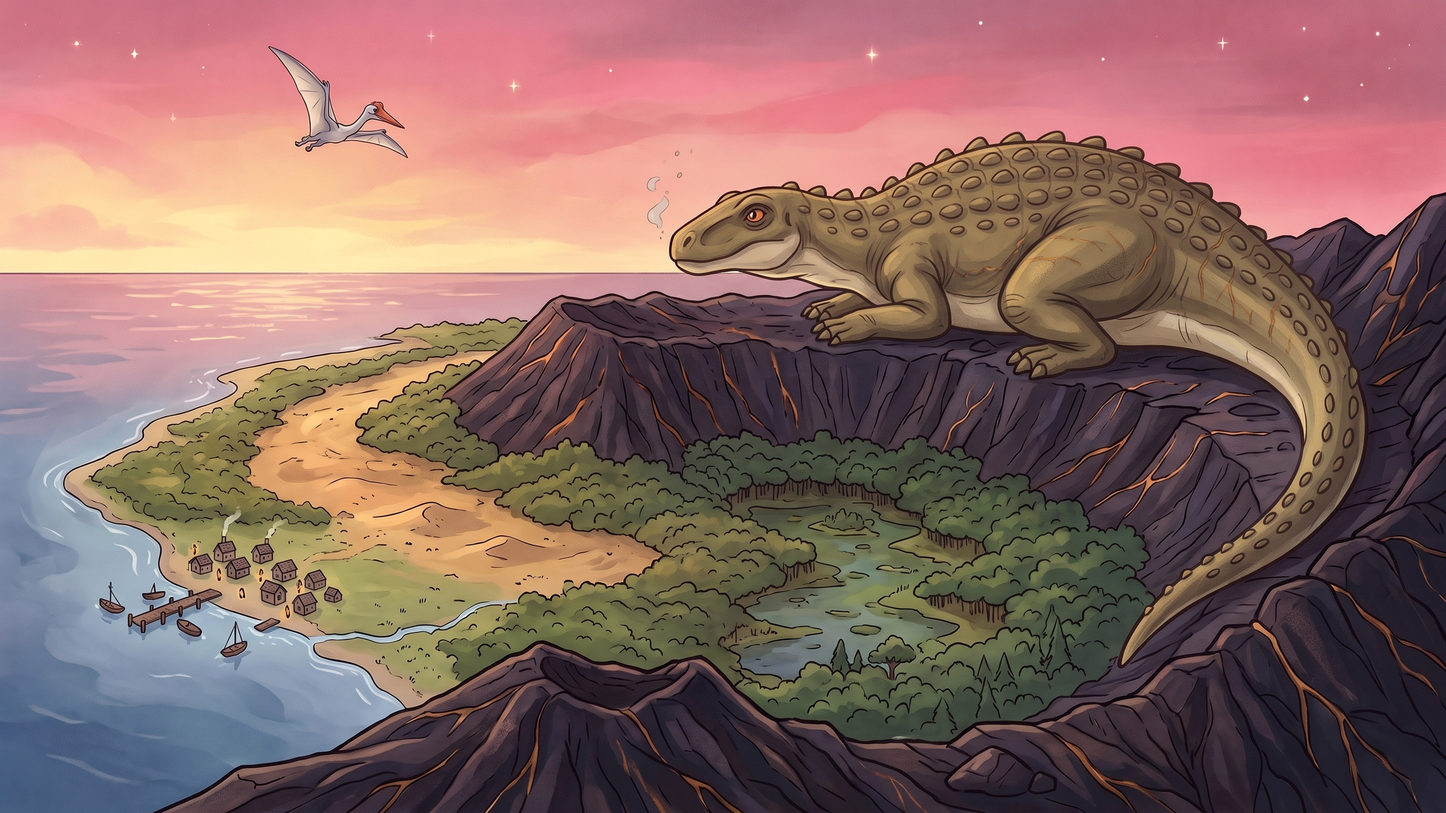
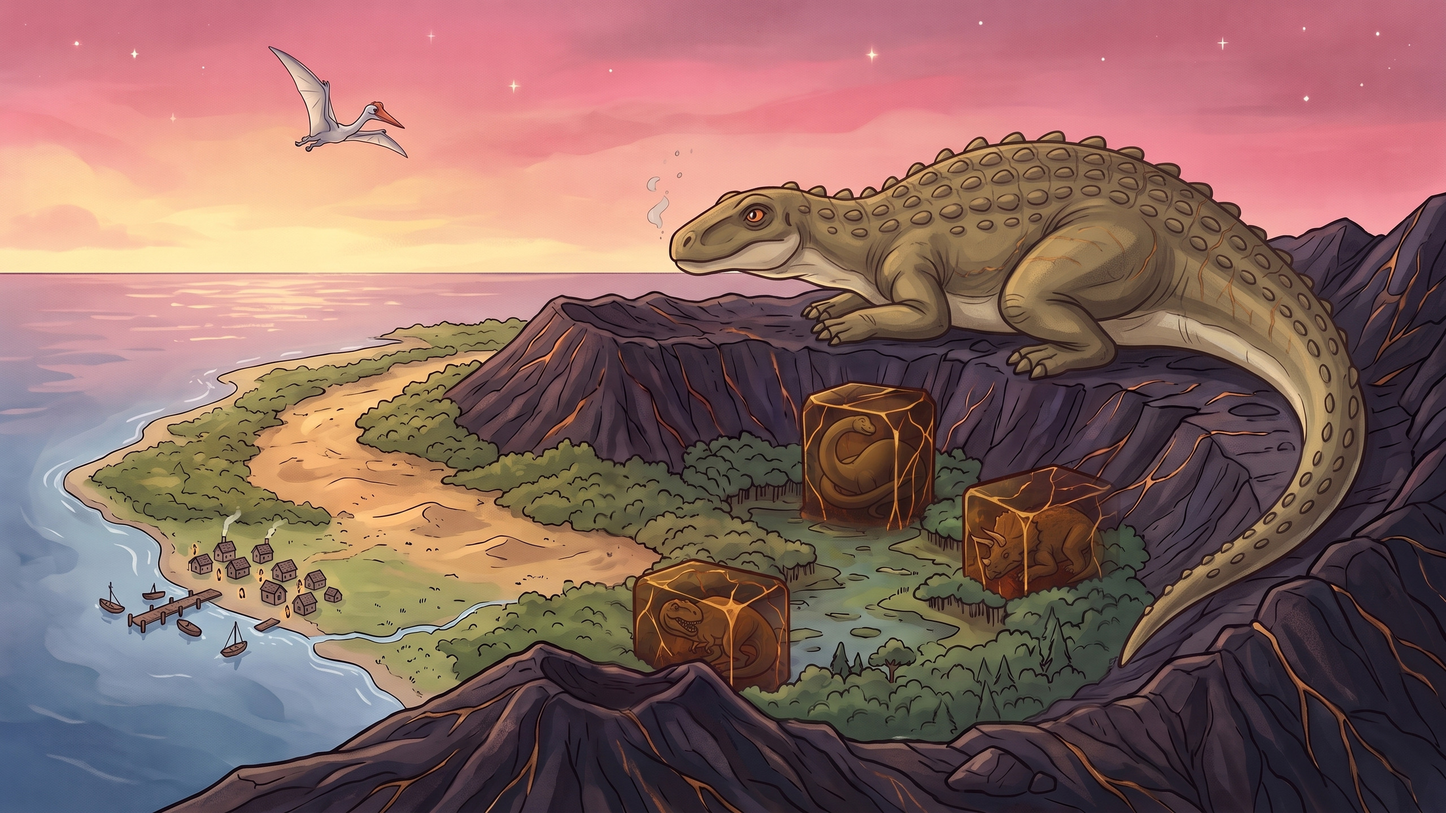
feat(images): blocs de géants au fond du cratère (fin 8), forges et masque d'os sur la carte (intro 5)

Changed region(s): [[0.4062, 0.4688, 0.7812, 0.9062]]

diff --git a/Godot/docs/direction-artistique.md b/Godot/docs/direction-artistique.md
@@ -859,7 +859,10 @@ Corrigés le 19/10 (passe de cohérence, édition nano-banana en gardant composi
 
 Passe finale du 19/10 (agent IMAGES, `tools/art-jobs/retouches_final.mjs`) : Isaure harmonisée (intro_07/08/09 : casquette de marin, écharpe rouge, tenue de sa planche `isaure.png` ; fin_02/fin_04 : chignon gris, vêtements sombres de `isaure_sans_masque.png`), `fin_06_dinos_bastion` (Ankylosaurus ocre de sa planche, lichen discret, massue de queue lisible, Maïa avec sa corde), `fin_06_dinos_base` (fumée du volcan retirée, comme les trois variantes), `intro_05_carte` et `_vide` (boussole sans lettres ni chiffres, repères gravés ; cadran collé à l'identique sur les deux), `intro_04` (œuf corail allongé). `fin_01` : vérifié, volcan et cheminées sans fumée. Cohérence de Chloé vérifiée dans toutes les peintures (auburn, barrette, taches de rousseur, sac, gilet) : rien à corriger.
 
+Retouches « Fable » du 19/10 (agent IMAGES, nano-banana, collées par masque flouté pour ne toucher que la zone voulue) : `fin_08_souverain` (trois blocs d'ambre sombre veinés d'or au fond du cratère, avec un sauropode, un théropode et un cératopsien couchés : les « blocs des géants » ; Souverain, ciel et mer inchangés) ; `intro_05_carte` (à l'encre : trois cheminées de forge qui fument et un petit masque d'os près du « ? » du volcan, zone 800-1700 × 500-1050 seulement). `intro_05_carte_vide` NON touchée : la carte et la carte vide restent superposables, l'encre en plus.
+
 Défauts connus restants (courts, sans gravité) :
+- `intro_05_carte` : cheminées et masque sont légèrement colorés (beige) plutôt qu'en encre brune pure ; à refaire avec nano-banana si Greg le veut plus « trait ». `fin_08_souverain` : les blocs sont un peu gros pour des « hameaux de géants ».
 - `fin_08_souverain` : la spirale de l'île reste approximative (non retouchée : pas simple sans toucher au Souverain).
 - `fin_09_journal` : les gribouillis ont un air régulier de près (le moteur peut les flouter).
 - `fin_02_barque_visiteurs` : Isaure change peu (déjà proche de sa planche) ; l'édition a aussi légèrement redessiné de petits détails.
